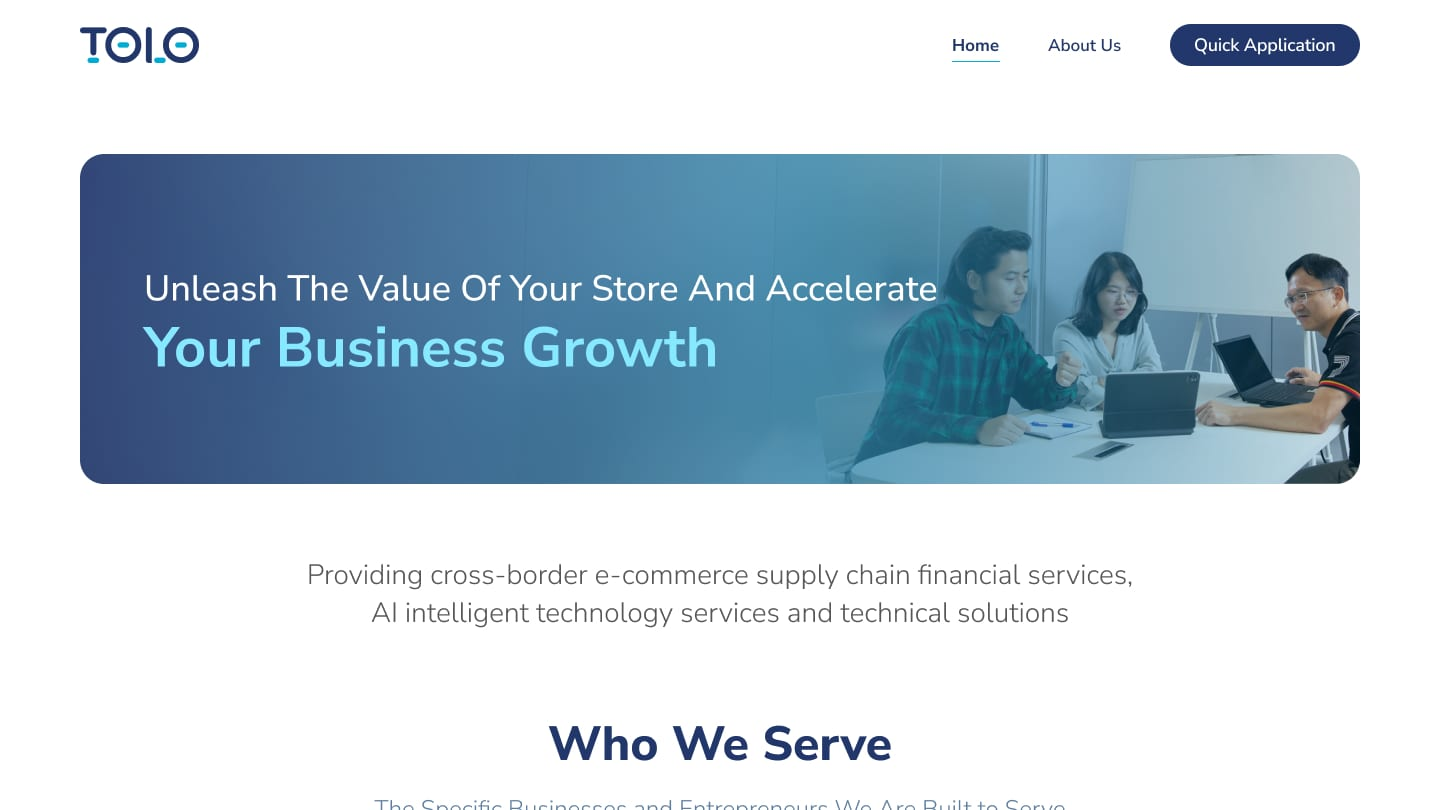
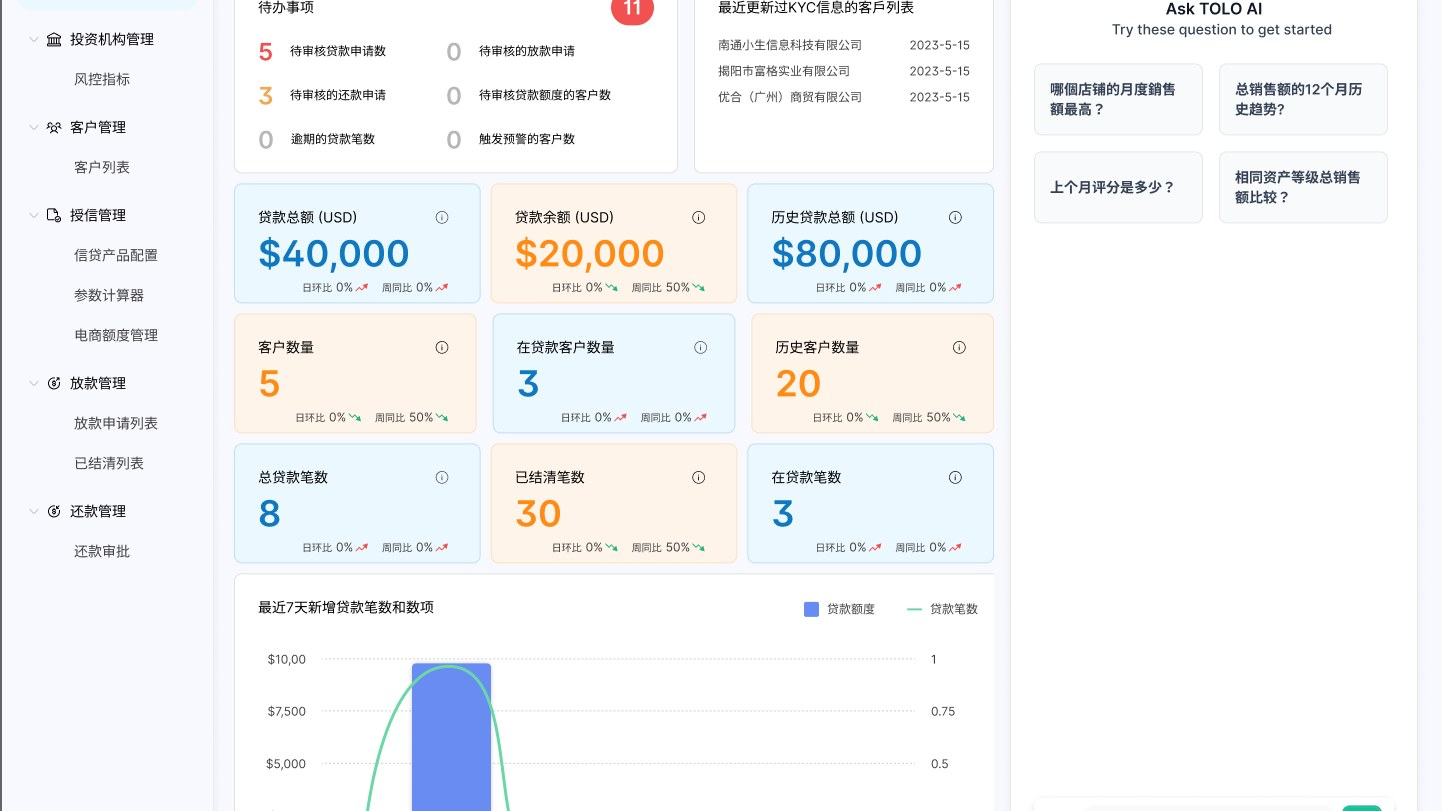
Refactor code structure for improved readability and maintainability

diff --git a/src/data/projects.ts b/src/data/projects.ts
@@ -528,7 +528,7 @@ export const projects: Project[] = [
       'Portfolio insights surfaced proactively instead of buried in reports',
       'Architecture split into micro-services (advisor, market data, portfolio) for scalability',
     ],
-    palette: ['#9F9BA0', '#3A3941', '#62606A', '#19181C'],
+    palette: ['#F8F8F8', '#19181C', '#6058C0', '#383068'],
     category: 'ux',
     order: 2,
   },
@@ -602,23 +602,26 @@ export const projects: Project[] = [
   },
   {
     slug: 'tolo-analytics-platform',
-    title: 'TOLOAnalytics — Trade Finance Analytics Platform',
+    title: 'TOLO Analytics — Trade Finance Analytics Platform',
     client: 'AIFT (人工智能金融科技實驗室)',
     role: 'UI/UX Designer',
     timeline: '2025',
     tools: ['Figma'],
-    tags: ['FinTech', 'Trade Finance', 'Website', 'Analytics', 'Branding'],
+    tags: ['FinTech', 'Trade Finance', 'Analytics', 'Dashboard', 'KYC'],
     featured: false,
     thumbnail: '/images/projects/tolo-analytics-platform/cover.jpg',
     heroImage: '/images/projects/tolo-analytics-platform/cover.jpg',
     summary:
-      'Designed the public platform and website for TOLOAnalytics, an AIFT trade finance analytics product — communicated credibility through trust signals (partner logos, university affiliations) and a credit calculator that turns opaque financing terms into something a business owner can actually evaluate.',
+      'Designed the end-to-end system UI for TOLO Analytics, an AIFT trade finance analytics platform — a lender-facing workspace where risk officers review loan applications, run KYC / KYS / KYP due diligence on borrowers, score creditworthiness, and assemble investment portfolios, with an embedded Ask TOLO AI assistant. Also designed the public marketing website (Home + About Us) with full mobile versions.',
     highlights: [
-      'Home + About Us structured around trust signals (partner logos, university affiliations)',
-      'Credit calculator makes financing cost, limit, and term comparable at a glance',
-      'Part of the same product line as TOLOD — the marketing site to TOLOD\'s operations app',
+      'Dashboard leads with pending work — applications, disbursements, repayments, and risk alerts as a to-do list, not a chart wall',
+      'KYC / KYS / KYP due-diligence layers carry a borrower from corporate identity to store to product',
+      'Risk compressed into a scorecard whose evidence is always one click below the number',
+      'Embedded Ask TOLO AI assistant answers portfolio questions in plain language inside the workspace',
+      'Public website on a deep-navy register tells the borrower story in Home + About Us, with responsive mobile versions',
+      'Part of the same product line as TOLOD — the analytics system to TOLOD\'s operations platform',
     ],
-    palette: ['#FDFDFD', '#5183A2', '#8CAFC3', '#33577B'],
+    palette: ['#FFFFFF', '#1078C0', '#C2DCEE', '#313233'],
     category: 'ux',
     order: 12,
   },
